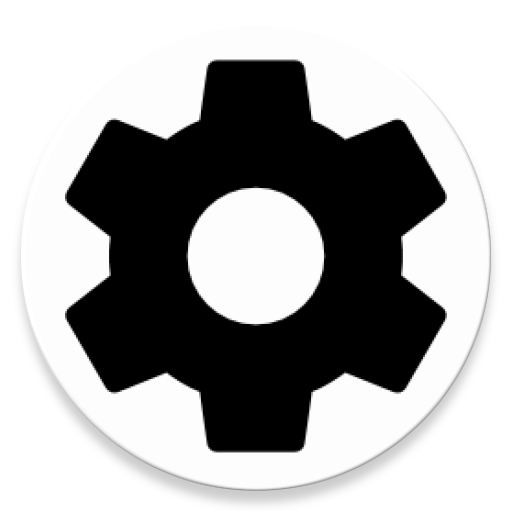
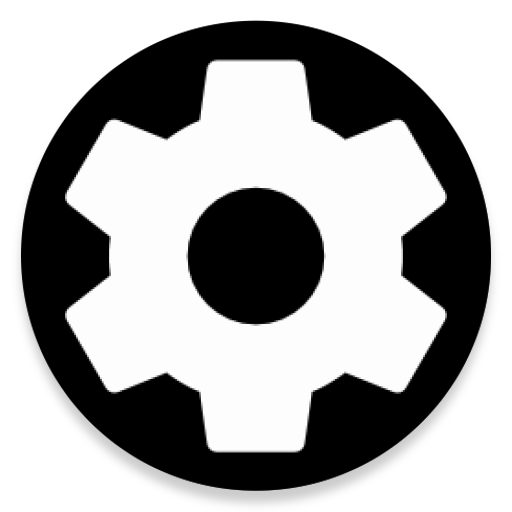
added settings button to menubar

diff --git a/app/src/main/java/com/mobpro/hslu/itengebs/helloeve/MainActivity.java b/app/src/main/java/com/mobpro/hslu/itengebs/helloeve/MainActivity.java
@@ -6,6 +6,8 @@ import android.support.v7.app.ActionBar;
 import android.support.v7.app.AppCompatActivity;
 import android.os.Bundle;
 import android.support.v7.widget.Toolbar;
+import android.view.Menu;
+import android.view.MenuInflater;
 import android.view.View;
 import android.widget.Toast;
 
@@ -38,12 +40,19 @@ public class MainActivity extends AppCompatActivity {
                 }
             }
         });
-
-
     }
 
     public void onHistoryFabClick(View view) {
         Intent intent = new Intent(this,HistoryActivity.class);
         startActivity(intent);
+    }
+
+    @Override
+    public boolean onCreateOptionsMenu(Menu menu) {
+        super.onCreateOptionsMenu(menu);
+
+        MenuInflater inflater = getMenuInflater();
+        inflater.inflate(R.menu.settings, menu);
+        return true;
     }
 }
